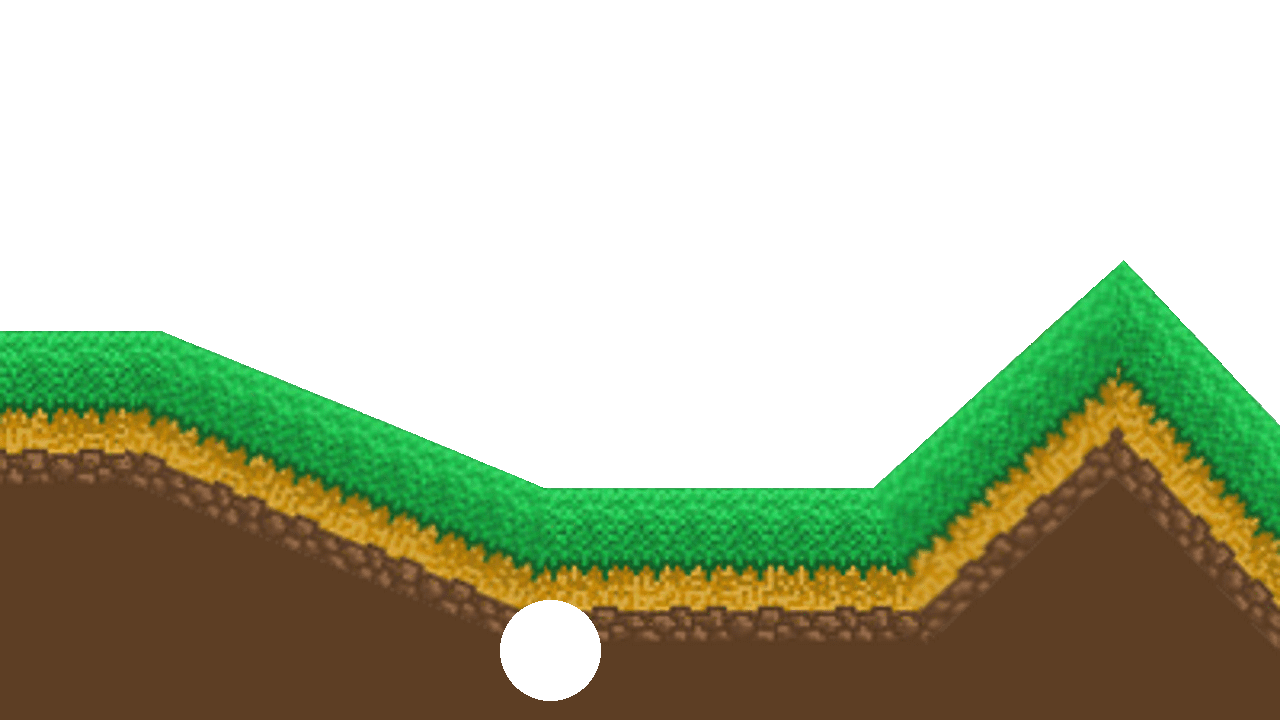
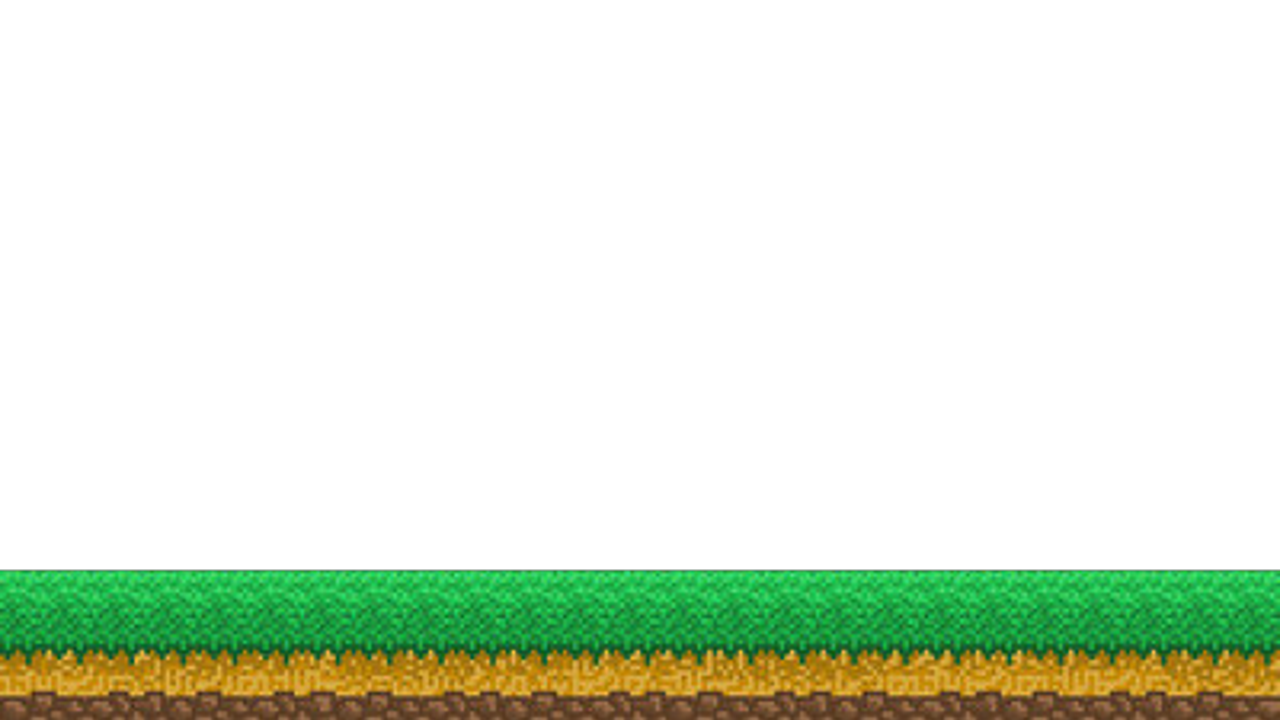
UPDATE : destruction map sans collision avec les worms

diff --git a/main.py b/main.py
@@ -4,8 +4,6 @@ import constant_dispenser
 from game import Game
 from projectile import Grenade
 from box import Box
-from environment import Evironment
-
 
 pygame.init()
 SCREEN_WIDTH = constant_dispenser.SCREEN_WIDTH # (1280x720)
@@ -16,13 +14,9 @@ screen = pygame.display.set_mode((SCREEN_WIDTH, SCREEN_HEIGHT))
 
 clock = pygame.time.Clock()
 FPS = constant_dispenser.FPS
-
-
-#ground = pygame.image.load("assets/ground.png")
 RED = (255, 0, 0)
 
 # Init
-environment = Evironment("assets/ground.png", "assets/background.png")
 game = Game()
 GRAVITY = game.GRAVITY
 tab_worms = [game.player1.worm1, game.player2.worm1]
@@ -31,9 +25,10 @@ explosion_group = game.explosion_group
 box_group = game.box_group
 worm_group = game.worm_group
 
-box = Box(100, 420, game)
+box = Box(900, 580, game)
 
-background = pygame.image.load("assets/background_show.jpg")
+groundForMask = pygame.image.load("assets/ground-actual.png")
+groundMask = pygame.mask.from_surface(groundForMask)
 
 # Actions
 moving_right_1 = False
@@ -52,11 +47,11 @@ while running:
     dt = clock.tick(FPS)
 
     # Affichage background
-    screen.blit(background, (0,0))
-    #screen.blit(ground, (0,100))
+    screen.blit(game.environment.pygameBackground, (0,0))
+    #screen.blit(groundForMask, (0,0))
 
     # Affichage sol et worms
-    pygame.draw.line(screen, RED, (0, 593), (SCREEN_WIDTH, 593))
+    # pygame.draw.line(screen, RED, (0, 593), (SCREEN_WIDTH, 593))
     game.player1.showWorm(screen, moving_left_1, moving_right_1)
     game.player2.showWorm(screen, moving_left_2, moving_right_2)
 
@@ -67,6 +62,11 @@ while running:
     explosion_group.draw(screen)
     box_group.update()
     box_group.draw(screen)
+
+    # détecion de collision avec le sol
+
+    if game.player1.worm1.wormCollisionWithGround(groundMask) != None:
+        print("collide")
 
     # Aide visée
     if(actualWormPlayer == tab_worms[0] and not single_shoot):
@@ -81,21 +81,8 @@ while running:
         game.end_turn = False
         A = (actualWormPlayer.rect.centerx, actualWormPlayer.rect.centery)
         B = (pygame.mouse.get_pos()[0], pygame.mouse.get_pos()[1] - 30)
-        #C = (pygame.mouse.get_pos()[0], actualWormPlayer.rect.centery)
 
         vect_AB = (B[0] - A[0], B[1] - A[1])
-
-        '''
-        #vect_AC = (C[0] - A[0], C[1] - A[1])
-        #vect_CB = (B[0] - C[0], B[1] - C[1])
-
-        #norme_AB = math.sqrt(vect_AB[0]**2 + vect_AB[1]**2)
-        #norme_AC = math.sqrt(vect_AC[0]**2 + vect_AC[1]**2)
-
-        #prod_scalaire = vect_AB[0]*vect_AC[0] + vect_AB[1]*vect_AC[1]
-
-        #alpha = math.acos(prod_scalaire/(norme_AB*norme_AC))
-        '''
 
         factor = 100
         direction_x = 1
@@ -124,7 +111,6 @@ while running:
         moving_left_2 = False
         game.end_turn = False
         single_shoot = False
-
 
     font = pygame.font.SysFont("consolas", 25)
 

diff --git a/environment.py b/environment.py
@@ -1,16 +1,17 @@
+import pygame
 from PIL import Image, ImageDraw
 
 class Evironment():
     def __init__(self, groundPath, backgroundPath):
-        self.ground = ground = Image.open(groundPath).convert("RGBA")
+        self.ground = Image.open(groundPath).convert("RGBA")
         self.background = Image.open(backgroundPath).convert("RGBA")
-        self.actualGround = ground.copy().convert("RGBA")
+        self.actualGround = self.ground.copy().convert("RGBA")
         self.background_show = Image.alpha_composite(self.background, self.actualGround).convert('RGB')
-        #self.background_show.show()
         self.saveBackground()
+        self.pygameBackground = pygame.image.load("assets/background_show.jpg")
 
     def updateBackgroundFusion(self, img1, img2):
-        self.background_show = Image.alpha_composite(img1, img2)
+        self.background_show = Image.alpha_composite(img1, img2).convert('RGB')
 
     def save(self, name, img):
         img.save('assets/' + name + '.png', 'PNG')
@@ -20,10 +21,14 @@ class Evironment():
 
     def destruction(self, center, size):
         draw = ImageDraw.Draw(self.actualGround)
-        draw.ellipse(((center[0], center[1]), center + size, center + size), fill=(255, 255, 255, 0))
+        draw.ellipse(((center[0] - size/2, center[1] - size/2), center[0] + size, center[1] + size), fill=(0, 0, 0, 0))
         self.save("ground-actual", self.actualGround)
         self.updateBackgroundFusion(self.background, self.actualGround)
-        self.save("background_show", self.background_show)
+        self.saveBackground()
+        self.pygameBackground = pygame.image.load("assets/background_show.jpg")
 
-
-
+    #def collision(self, player):
+        #coords = self.actualGround.getpixel((player.worm1.rect.x,player.worm1.rect.y))
+        #print(coords)
+        #if(player.worm1.rect.y + 30 >= coords[1] and coords == (0, 0, 0, 0)):
+            #player.worm1.rect.y = coords[1]

diff --git a/worm.py b/worm.py
@@ -1,6 +1,9 @@
 import pygame
 import constant_dispenser
 
+#groundForMask = pygame.image.load("assets/ground-actual.png")
+#groundMask = pygame.mask.from_surface(groundForMask)
+
 class Worm(pygame.sprite.Sprite):
     def __init__(self, game, name, x, y, scale, speed, color):
         super().__init__() # init Sprite
@@ -18,8 +21,8 @@ class Worm(pygame.sprite.Sprite):
         self.dx = 0
         self.dy = 0
 
-        img = pygame.image.load("assets/worm_p1.png")
-        self.image = pygame.transform.scale(img, (int(img.get_width() * scale), int(img.get_height() * scale)))
+        self.img = pygame.image.load("assets/worm_p1.png")
+        self.image = pygame.transform.scale(self.img, (int(self.img.get_width() * scale), int(self.img.get_height() * scale)))
 
         self.rect = self.image.get_rect()
         self.rect.x = x
@@ -95,3 +98,10 @@ class Worm(pygame.sprite.Sprite):
                 if abs(element.rect.left+10 - self.rect.right) < collision_tolerance and self.direction > 0:
                     self.rect.bottom = element.rect.top+5 # auto climb
                 self.in_air = False
+
+    def wormCollisionWithGround(self, mask, x=0, y=0):
+        worm_mask = pygame.mask.from_surface(self.img)
+        offset = (int(x - self.rect.x), int(y - self.rect.y))
+        collision = mask.overlap(worm_mask, offset)
+        #print(collision)
+        return collision

diff --git a/game.py b/game.py
@@ -1,17 +1,18 @@
 import pygame
 import math
 from player import Player
+from environment import Evironment
 
 class Game:
     def __init__(self):
         self.GRAVITY = 9.81
-        #self.environment = Evironment("assets/background.png", "assets/ground.png")
+        self.environment = Evironment("assets/ground.png", "assets/background.png")
         self.grenade_group = pygame.sprite.Group()
         self.box_group = pygame.sprite.Group()
         self.explosion_group = pygame.sprite.Group()
         self.worm_group = pygame.sprite.Group()
-        self.player1 = Player(self, 500, 350, (255, 0, 0))
-        self.player2 = Player(self, 780, 350, (0, 0, 255))
+        self.player1 = Player(self, 500, 330, (255, 0, 0))
+        self.player2 = Player(self, 780, 330, (0, 0, 255))
         self.end_turn = False
         self.turn = 0
 

diff --git a/projectile.py b/projectile.py
@@ -68,10 +68,10 @@ class Grenade(pygame.sprite.Sprite):
         if self.timer <= 0:
             self.kill()
             explosion = Explosion(self.rect.x, self.rect.y, 2, self.game)
-            explosion.degats(self.game.player1.worm1, 0.1, 4)
-            explosion.degats(self.game.player2.worm1, 0.1, 4)
+            explosion.degats(self.game.player1.worm1, 0.1, 4, self.game)
+            explosion.degats(self.game.player2.worm1, 0.1, 4, self.game)
             for e in self.game.box_group:
-                explosion.degats(e, 0.1, 4)
+                explosion.degats(e, 0.1, 4, self.game)
 
         self.t += .05
 

diff --git a/explosion.py b/explosion.py
@@ -35,10 +35,11 @@ class Explosion(pygame.sprite.Sprite):
             else:
                 self.image = self.images[self.img_index]
 
-    def degats(self, element, h_courbe_ecart, l_courbe_ecart):
+    def degats(self, element, h_courbe_ecart, l_courbe_ecart, game):
         g_center = (self.rect.center[0], self.rect.center[1])
         w_center = (element.rect.centerx, element.rect.centery)
 
+        game.environment.destruction(g_center, 100)
         #print(self.rect.center[0], self.rect.center[1])
         #print(worm.rect.centerx, worm.rect.centery)
 

diff --git a/box.py b/box.py
@@ -23,5 +23,5 @@ class Box(pygame.sprite.Sprite):
 
     def explosion(self):
         explosion = Explosion(self.rect.x, self.rect.y, 2, self.game)
-        explosion.degats(self.game.player1.worm1, 0.075, 6)
-        explosion.degats(self.game.player2.worm1, 0.075, 6)
+        explosion.degats(self.game.player1.worm1, 0.075, 6, self.game)
+        explosion.degats(self.game.player2.worm1, 0.075, 6, self.game)
